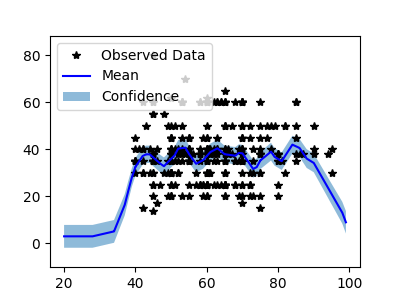
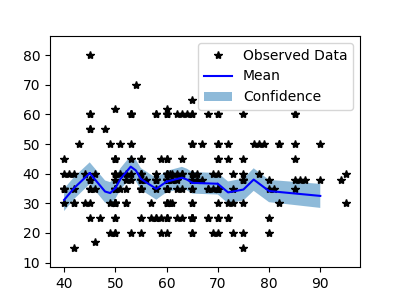
Add evaluation using real test set

diff --git a/src/modeling/train.py b/src/modeling/train.py
@@ -5,17 +5,28 @@ import matplotlib.pyplot as plt
 
 from src.config import EXTERNAL_DATA_DIR
 from src.modeling.model import ExactGPModel
+from sklearn.model_selection import train_test_split
 
 def get_data():
     data = pd.read_csv(EXTERNAL_DATA_DIR / "heart_failure.csv")
-    training_data = data[['ejection_fraction', 'age']]
-    return training_data
-  
+    return data[['ejection_fraction', 'age']]
+     
 def train():
     training_data = get_data()
     
-    train_x = torch.tensor(training_data['age'].values, dtype=torch.float32).unsqueeze(1)
-    train_y = torch.tensor(training_data['ejection_fraction'].values)
+     # Split real data into train/test (80/20)
+    train_x, test_x, train_y, test_y = train_test_split(
+        training_data[['age']].values, 
+        training_data['ejection_fraction'].values, 
+        test_size=0.2, 
+        random_state=42
+    )
+    
+    train_x = torch.tensor(train_x, dtype=torch.float32)
+    train_y = torch.tensor(train_y, dtype=torch.float32)
+    test_x = torch.tensor(test_x, dtype=torch.float32)
+    test_y = torch.tensor(test_y, dtype=torch.float32)
+
 
     likelihood = gpytorch.likelihoods.GaussianLikelihood()
     model = ExactGPModel(train_x, train_y, likelihood)
@@ -46,7 +57,8 @@ def train():
     torch.save(likelihood.state_dict(), 'likelihood.pth')
     torch.save(train_x, 'train_x.pth')
     torch.save(train_y, 'train_y.pth')
-        
+    torch.save(test_x, 'test_x.pth')
+    torch.save(test_y, 'test_y.pth')
         
 if __name__ == "__main__":
     train()

diff --git a/src/modeling/predict.py b/src/modeling/predict.py
@@ -1,20 +1,12 @@
-from pathlib import Path
-
-from loguru import logger
-from tqdm import tqdm
-import typer
-
 import torch
 import gpytorch
 
 from src.modeling.model import ExactGPModel
 
-app = typer.Typer()
-
-@app.command("predict")
 def predict():
     train_x = torch.load('train_x.pth')
-    train_y = torch.load('train_y.pth')
+    train_y = torch.load('train_y.pth') 
+    test_x = torch.load("test_x.pth")
 
     likelihood = gpytorch.likelihoods.GaussianLikelihood()
     model = ExactGPModel(train_x, train_y, likelihood)
@@ -26,15 +18,14 @@ def predict():
     likelihood.eval()
     
     with torch.no_grad(), gpytorch.settings.fast_pred_var():
-        test_x = torch.randint(20, 101, (51, 1), dtype=torch.float32)
         observed_pred = likelihood(model(test_x))
         
     torch.save({
-    "mean": observed_pred.mean,
-    "lower": observed_pred.confidence_region()[0],
-    "upper": observed_pred.confidence_region()[1],
-    "test_x": test_x
+        "mean": observed_pred.mean,
+        "lower": observed_pred.confidence_region()[0],
+        "upper": observed_pred.confidence_region()[1],
+        "test_x": test_x
     }, "observed_pred.pth")
 
 if __name__ == "__main__":
-    app()
+    predict()

diff --git a/src/plots.py b/src/plots.py
@@ -9,11 +9,11 @@ def plot_gp_predictions():
     train_y = torch.load("train_y.pth")
 
     # Load predictions
-    data = torch.load("observed_pred.pth")
-    mean = data["mean"]
-    lower = data["lower"]
-    upper = data["upper"]
-    test_x = data["test_x"]
+    pred_data = torch.load("observed_pred.pth")
+    mean = pred_data["mean"]
+    lower = pred_data["lower"]
+    upper = pred_data["upper"]
+    test_x = pred_data["test_x"]
 
     # Flatten and convert to numpy
     x = test_x.squeeze().numpy()
